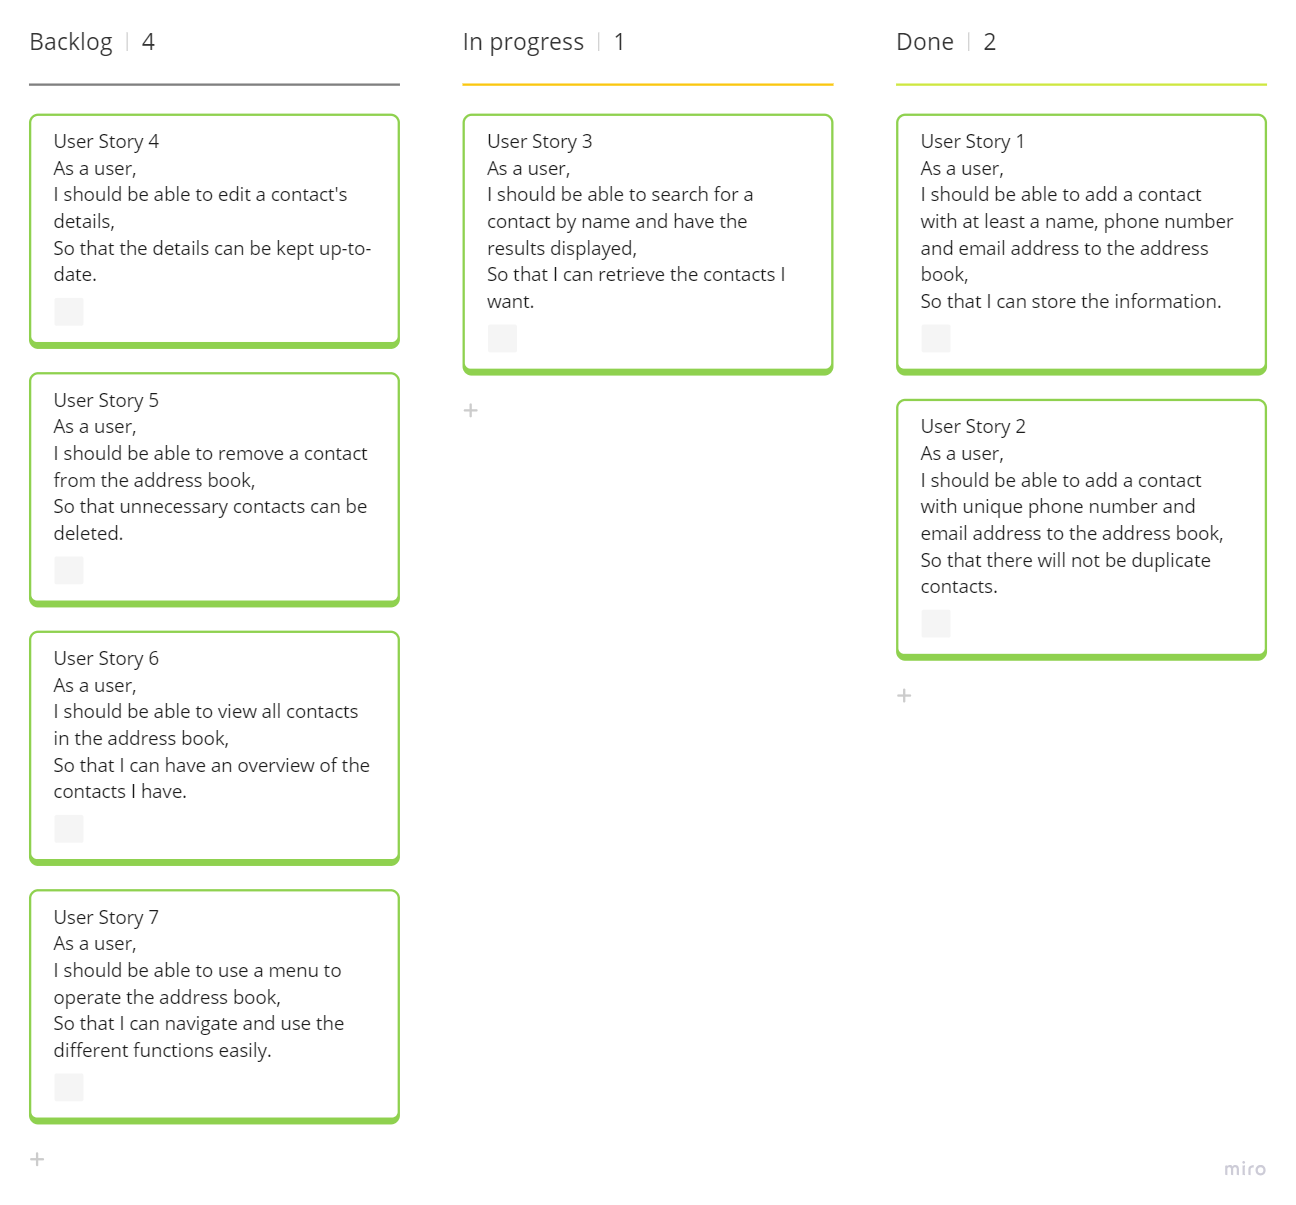
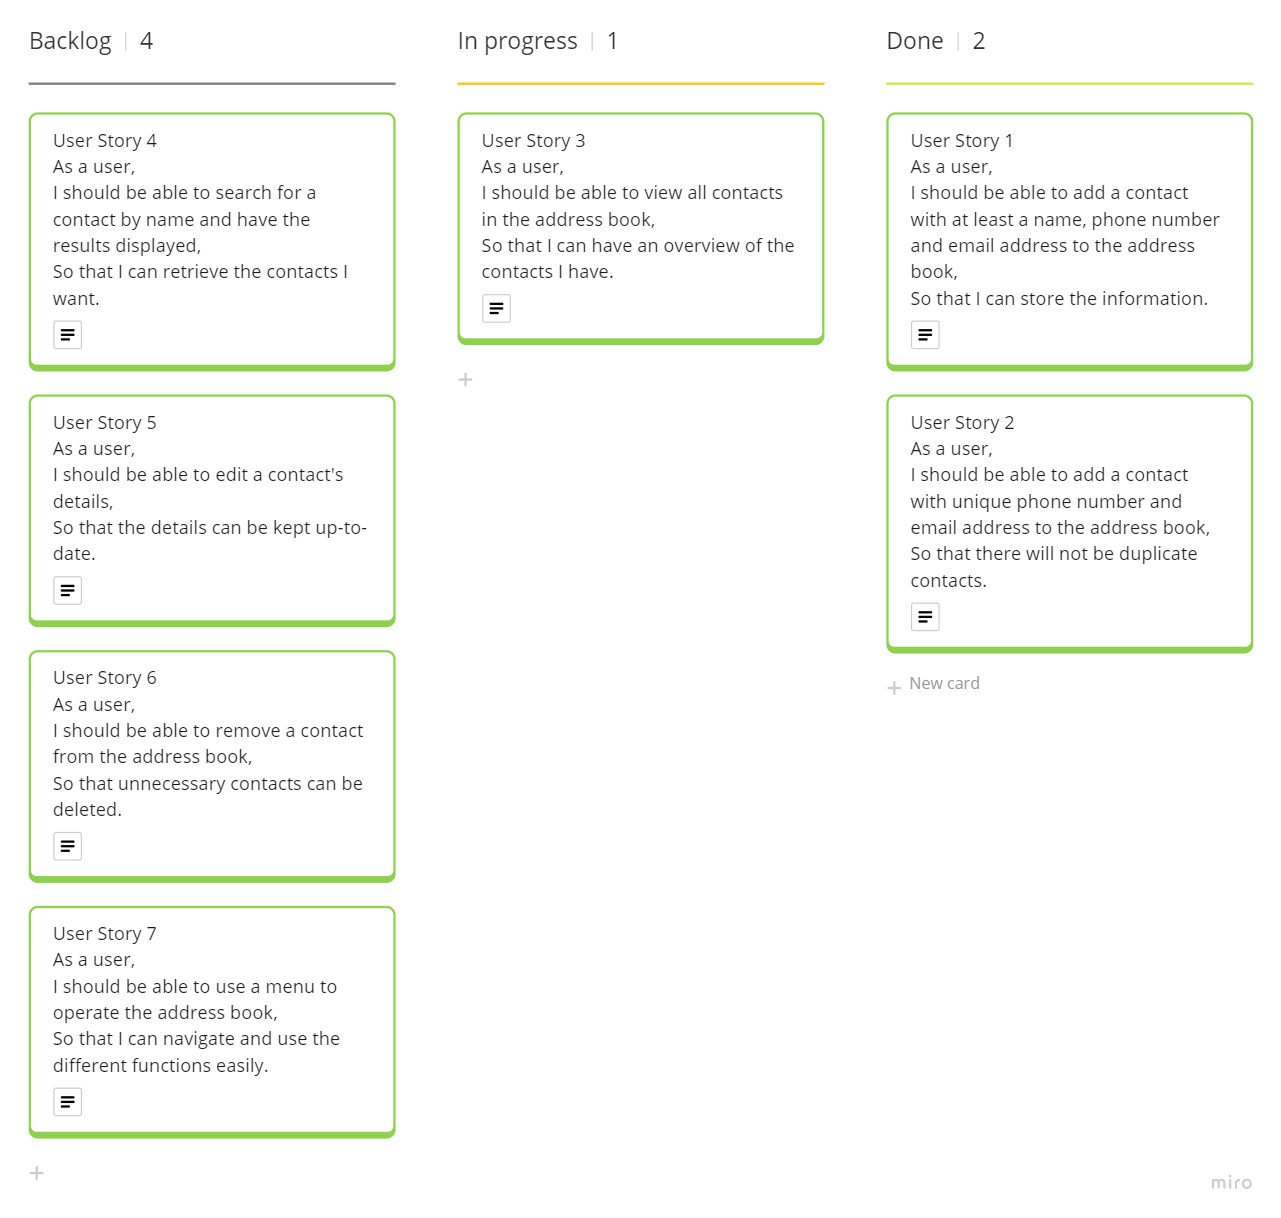
Passed test 3.1

Changed region(s): [[0.0, 0.0307, 0.3123, 0.9519], [0.687, 0.0307, 0.9992, 0.5834], [0.3435, 0.0307, 0.6557, 0.3378]]

diff --git a/src/test/java/com/dfcorp/app/AddressBookTest.java b/src/test/java/com/dfcorp/app/AddressBookTest.java
@@ -4,46 +4,49 @@ import org.junit.jupiter.api.*;
 import org.mockito.*;
 import java.io.ByteArrayOutputStream;
 import java.io.PrintStream;
+import java.util.ArrayList;
+import java.util.List;
+
 import static org.junit.jupiter.api.Assertions.*;
 import static org.mockito.Mockito.when;
 
 public class AddressBookTest {
 
+    AddressBook testAddressBook;
+    Contact mockedContact1;
+    Contact mockedContact2;
+    String testName1 = "Aidan Adams";
+    String testPhoneNumber1 = "01234567890";
+    String testEmailAddress1 = "aidanadams@abc.com";
+    String testName2 = "Blair Bay";
+    String testPhoneNumber2 = "02345678901";
+    String testEmailAddress2 = "blairbay@bcd.com";
+
+    @BeforeEach
+    public void setUp() {
+        testAddressBook = new AddressBook();
+        // Set up Mocked Contact 1
+        mockedContact1 = Mockito.mock(Contact.class);
+        when(mockedContact1.getName()).thenReturn(testName1);
+        when(mockedContact1.getPhoneNumber()).thenReturn(testPhoneNumber1);
+        when(mockedContact1.getEmailAddress()).thenReturn(testEmailAddress1);
+        // Set up Mocked Contact 2
+        mockedContact2 = Mockito.mock(Contact.class);
+        when(mockedContact2.getName()).thenReturn(testName2);
+        when(mockedContact2.getPhoneNumber()).thenReturn(testPhoneNumber2);
+        when(mockedContact2.getEmailAddress()).thenReturn(testEmailAddress2);
+    }
+
+    @AfterEach
+    public void tearDown() {
+        testAddressBook = null;
+        mockedContact1 = null;
+        mockedContact2 = null;
+    }
+
     @Nested
     @DisplayName("Address Book Add Contact Tests")
     class AddressBookAddContactTests {
-
-        AddressBook testAddressBook;
-        Contact mockedContact1;
-        Contact mockedContact2;
-        String testName1 = "Aidan Adams";
-        String testPhoneNumber1 = "01234567890";
-        String testEmailAddress1 = "aidanadams@abc.com";
-        String testName2 = "Blair Bay";
-        String testPhoneNumber2 = "02345678901";
-        String testEmailAddress2 = "blairbay@bcd.com";
-
-        @BeforeEach
-        public void setUp() {
-            testAddressBook = new AddressBook();
-            // Set up Mocked Contact 1
-            mockedContact1 = Mockito.mock(Contact.class);
-            when(mockedContact1.getName()).thenReturn(testName1);
-            when(mockedContact1.getPhoneNumber()).thenReturn(testPhoneNumber1);
-            when(mockedContact1.getEmailAddress()).thenReturn(testEmailAddress1);
-            // Set up Mocked Contact 2
-            mockedContact2 = Mockito.mock(Contact.class);
-            when(mockedContact2.getName()).thenReturn(testName2);
-            when(mockedContact2.getPhoneNumber()).thenReturn(testPhoneNumber2);
-            when(mockedContact2.getEmailAddress()).thenReturn(testEmailAddress2);
-        }
-
-        @AfterEach
-        public void tearDown() {
-            testAddressBook = null;
-            mockedContact1 = null;
-            mockedContact2 = null;
-        }
 
         @Test
         @DisplayName("1.13 Valid contact is added to address book")
@@ -105,5 +108,32 @@ public class AddressBookTest {
             // Assert
             assertEquals(2, testAddressBook.getAllContacts().size());
         }
+    }
+
+    @Nested
+    @DisplayName("Address Book View Contacts Tests")
+    class AddressBookViewContactsTests {
+
+        @Test
+        @DisplayName("3.1 Prints the details of all contacts")
+        public void testValidContactWithDuplicateNameIsAddedToAddressBook() {
+            // Arrange
+            String expectedStr1 = "Contact { name=Aidan Adams, phoneNumber=01234567890, " +
+                    "emailAddress=aidanadams@abc.com }\n";
+            String expectedStr2 = "Contact { name=Blair Bay, phoneNumber=02345678901, " +
+                    "emailAddress=blairbay@bcd.com }\n";
+            ArrayList<String> expected = new ArrayList<>(List.of(expectedStr1, expectedStr2));
+            // Define action of mock contacts when their toString method is called
+            when(mockedContact1.toString()).thenReturn(expectedStr1);
+            when(mockedContact2.toString()).thenReturn(expectedStr2);
+            testAddressBook.addContact(mockedContact1);
+            testAddressBook.addContact(mockedContact2);
+            // Act
+            ArrayList<String> actual = testAddressBook.viewAllContacts();
+            // Assert
+            assertEquals(expected, actual);
+        }
+
+
     }
 }

diff --git a/src/main/java/com/dfcorp/app/AddressBook.java b/src/main/java/com/dfcorp/app/AddressBook.java
@@ -14,6 +14,15 @@ public class AddressBook {
         return allContacts;
     }
 
+    public ArrayList<String> viewAllContacts() {
+        ArrayList<String> result = new ArrayList<>();
+        for (Contact contact : allContacts) {
+            String contactStr = contact.toString();
+            result.add(contactStr);
+        }
+        return result;
+    }
+
     private Contact checkNotDuplicate(Contact contactToBeChecked) {
         ArrayList<Contact> contacts = this.getAllContacts();
         for (Contact contact : contacts) {

diff --git a/src/main/java/com/dfcorp/app/Contact.java b/src/main/java/com/dfcorp/app/Contact.java
@@ -66,4 +66,13 @@ public class Contact {
         );
         return result;
     }
+
+    @Override
+    public String toString() {
+        return "Contact { " +
+                "name=" + name +
+                ", phoneNumber=" + phoneNumber +
+                ", emailAddress=" + emailAddress +
+                " }\n";
+    }
 }

diff --git a/docs/class-diagrams-test-plan.md b/docs/class-diagrams-test-plan.md
@@ -68,15 +68,25 @@ classDiagram
 - [x] 2.2 Throws exception when email address is duplicating with another contact
 - [x] 2.3 Adds contact when only name is duplicating with another contact
 
-**3. As a user, I should be able to search for a contact by name and have the results displayed, so that I can retrieve the contacts I want.**
-- [x] 3.1 
+**3. As a user, I should be able to view all contacts in the address book, so that I can have an overview of the contacts I have.**
+- [ ] 3.1 Prints the details of all contacts 
+
+**4. As a user, I should be able to search for a contact by name and have the results displayed, so that I can retrieve the contacts I want.**
+- [ ]
 - [ ] 
 - [ ] 
 
-**4. As a user, I should be able to edit a contact's details, so that the details can be kept up-to-date.**
+**5. As a user, I should be able to edit a contact's details, so that the details can be kept up-to-date.**
+- [ ]
+- [ ] 
+- [ ] 
 
-**5. As a user, I should be able to remove a contact from the address book, so that unnecessary contacts can be deleted.**
-
-**6. As a user, I should be able to view all contacts in the address book, so that I can have an overview of the contacts I have.**
+**6. As a user, I should be able to remove a contact from the address book, so that unnecessary contacts can be deleted.**
+- [ ]
+- [ ] 
+- [ ] 
 
 **7. As a user, I should be able to use a menu to operate the address book, so that I can navigate and use the different functions easily.**
+- [ ]
+- [ ] 
+- [ ] 
